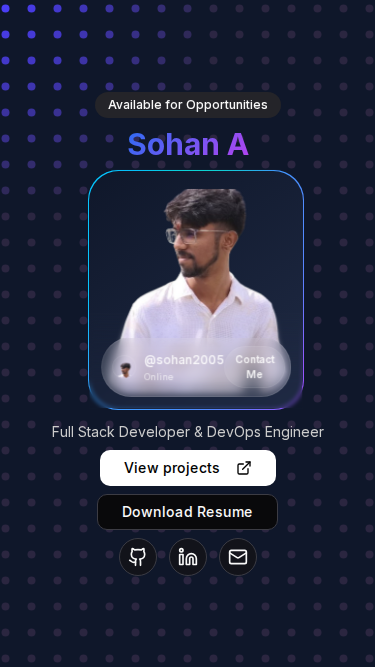
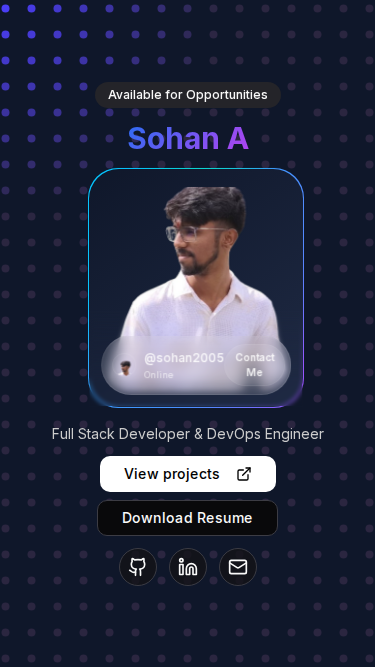
Fix: Ensure hero section fits perfectly on mobile viewport
The hero section's content was overflowing on mobile devices, and the layout was not visually balanced. The profile card's avatar was also improperly scaled and aligned.

This commit addresses these issues through a comprehensive set of adjustments targeted at mobile viewports:

- **Layout & Sizing:**
  - Replaced `min-h-screen` with `min-h-[100svh]` on the hero section to account for mobile browser UI.
  - Vertically centered the content with `items-center` to ensure a balanced layout.
  - Adjusted font sizes, margins, button sizes, and icon sizes in `hero-section.tsx` for a compact and well-spaced mobile layout.
  - Adjusted the `max-height` and `aspect-ratio` of the profile card in `ProfileCard.css` to reduce its vertical footprint.
  - Corrected the `object-position` of the avatar in `ProfileCard.css` to ensure it is centered correctly.

- **Verification:**
  - Added a delay to the Playwright verification script to ensure an accurate screenshot is captured after animations complete.

These changes are scoped to mobile viewports using responsive classes and do not affect the desktop layout. The final result is a hero section that is both functional and visually appealing on mobile devices.

diff --git a/src/components/hero-section.tsx b/src/components/hero-section.tsx
@@ -47,16 +47,16 @@ export function HeroSection() {
         <div className="container mx-auto px-0 sm:px-4 relative z-20">
           <div className="grid grid-cols-1 lg:grid-cols-2 gap-10 items-center">
             <div className="max-w-3xl text-center lg:text-left">
-            <Badge variant="secondary" className="mb-2 sm:mb-6 px-3 py-1 text-xs sm:text-sm font-medium">
+            <Badge variant="secondary" className="mb-3 sm:mb-6 px-3 py-1 text-xs sm:text-sm font-medium">
               Available for Opportunities
             </Badge>
 
-            <h1 className="text-3xl sm:text-6xl lg:text-7xl font-bold mb-2 sm:mb-6 animate-fade-in-up [animation-delay:0.1s] opacity-0">
+            <h1 className="text-3xl sm:text-6xl lg:text-7xl font-bold mb-3 sm:mb-6 animate-fade-in-up [animation-delay:0.1s] opacity-0">
               <span className="gradient-text">Sohan A</span>
             </h1>
 
             {/* Profile Card - Mobile only (between name and title) */}
-            <div className="w-full grid place-items-center mb-3 sm:mb-8 lg:hidden px-4">
+            <div className="w-full grid place-items-center mb-4 sm:mb-8 lg:hidden px-4">
               <div className="w-[200px] sm:w-[350px] mx-auto">
                 <ProfileCard
                   name="Sohan A"
@@ -78,11 +78,11 @@ export function HeroSection() {
               </div>
             </div>
 
-            <p className="text-sm sm:text-2xl text-text-secondary mb-2 sm:mb-8 animate-fade-in-up [animation-delay:0.2s] opacity-0">
+            <p className="text-sm sm:text-2xl text-text-secondary mb-3 sm:mb-8 animate-fade-in-up [animation-delay:0.2s] opacity-0">
               Full Stack Developer & DevOps Engineer
             </p>
 
-            <div className="flex flex-col sm:flex-row gap-2 justify-center lg:justify-start items-center lg:items-start mb-2 sm:mb-12 animate-fade-in-up [animation-delay:0.3s] opacity-0">
+            <div className="flex flex-col sm:flex-row gap-2 justify-center lg:justify-start items-center lg:items-start mb-3 sm:mb-12 animate-fade-in-up [animation-delay:0.3s] opacity-0">
               <Button 
                 size="sm"
                 className="bg-white text-black hover:bg-white/90 px-6 py-2"
